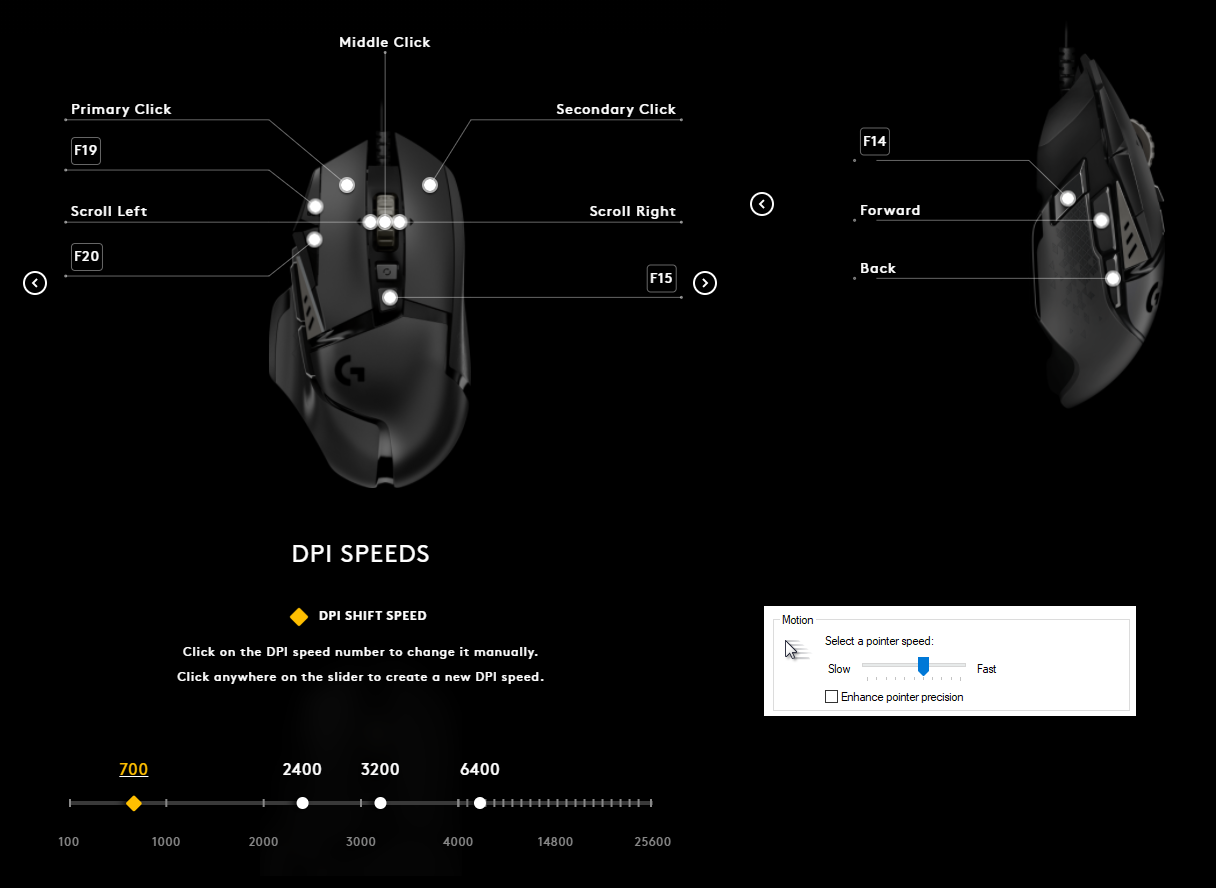
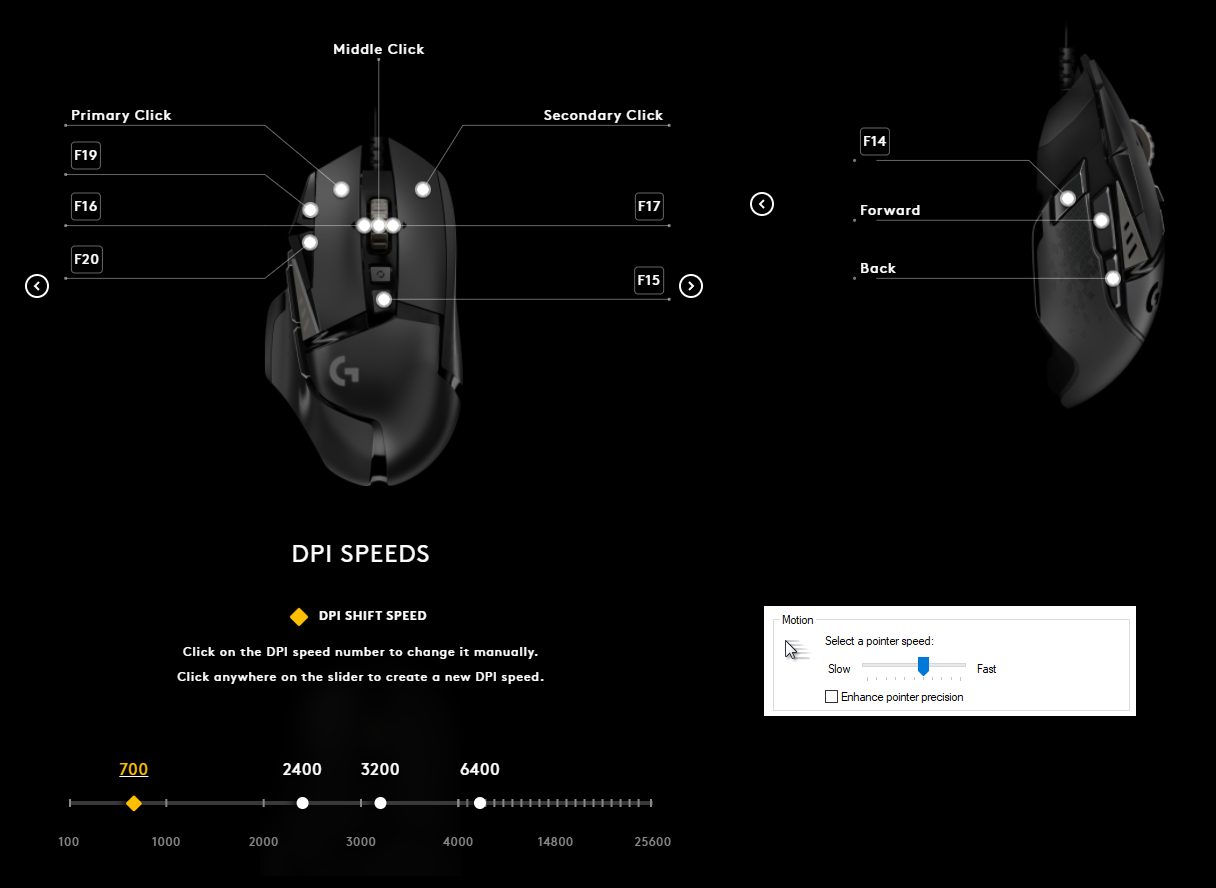
change WheelLeft/Right to F16/17 + Logitech GHUB broke WheelLeft/Right

diff --git a/Support Files/readme.md b/Support Files/readme.md
@@ -4,3 +4,5 @@ This directory is here simply to *assist* other scripts.
 - `\images` contains any images scripts use in them (eg. for a gui)
 - `ignore.ini` is for the update checker to know if you want to be prompted or not
 - `mouse settings.png` is just a backup of my mouse settings
+
+*note:* in a recent version of LGHUB, the `WheelLeft/WheelRight` buttons were either changed on purpose or broken on accident so that if you hold them, they spam their inputs. As such, I have had to replace them with `F16/F17` respectively. If logitech ever revert this change, I will as well but as there isn't any way to revert their software, this is all I can do for now to maintain proper functionality of my scripts

diff --git a/changelog.md b/changelog.md
@@ -3,6 +3,7 @@
 ## > My Scripts
 - Added `adobeTemp()` to delete Adobe cache files on first startup if they're larger than a user determined amount; `15GB` by default
 - Fixed a few `ErrorLog` outputs
+- Change all `WheelLeft/WheelRight` to new `F{key}` assignments as LGHUB has recently broken those keys
 
 ## > Error Logs
 - Now grabs and displays a whole bunch of system information on first firing of the current day 
